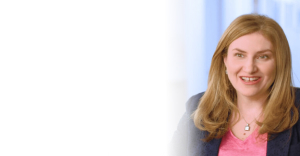
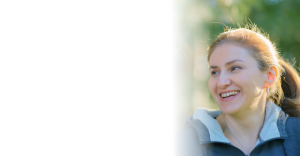
feat: replace images

diff --git a/patient-banners/160x600/Banner_files/css/custom-styles.min.css b/patient-banners/160x600/Banner_files/css/custom-styles.min.css
@@ -1,1 +1,1 @@
-@import url(https://fonts.googleapis.com/css2?family=Source+Sans+Pro:ital,wght@0,200;0,300;0,400;0,600;0,700;0,900;1,200;1,300;1,400;1,600;1,700;1,900&display=swap);@import url(https://fonts.googleapis.com/css2?family=Open+Sans&display=swap);*,a:active{outline:0}*,ol,ul{padding:0}*,:after,:before,body{box-sizing:border-box}*,.banner__frame--text p a:hover{text-decoration:none}.banner__frame--text .mt-0.underline,.banner__frame--text p a{text-decoration:underline}.banner__frame--three .banner__frame--top,a{cursor:pointer}.banner__frame p,.banner__frame--top-body{text-align:center}*,.h,.h1,.h2,.h3,.h4,.h5,.h6,h1,h2,h3,h4,h5,h6{margin:0}html{margin:0!important;-webkit-text-size-adjust:none}ol,ul{list-style:none}a img{border:none}button::-moz-focus-inner,input[type=button]::-moz-focus-inner,input[type=file]>input[type=button]::-moz-focus-inner,input[type=reset]::-moz-focus-inner,input[type=submit]::-moz-focus-inner{margin:0;border:0;padding:0}input[type=button],input[type=email],input[type=password],input[type=reset],input[type=submit],input[type=tel],input[type=text],textarea{-webkit-appearance:none;-moz-appearance:none;appearance:none}input::-moz-placeholder{opacity:1}input:-webkit-autofill{-webkit-box-shadow:inset 0 0 0 1000px #fff}table{width:100%;border-collapse:collapse}p{line-height:20px}a{color:inherit}img{max-width:100%}em,i{font-style:italic}body{background:#fff;display:block;font-family:"Source Sans Pro",sans-serif;color:#253a71}.bannerWrapper{display:flex;align-items:center;justify-content:center;width:100%;position:relative;height:100%}.banner__frame--logo,.banner__frame--top{display:flex;align-items:center;padding:0}.banner__frame{width:160px;margin:0 auto;background:#fff;height:600px;opacity:1;position:absolute;top:auto;left:auto;border:1px solid #000}.banner__frame--bottom,.bottomSectionOuter,.list li,.one{position:relative}.banner__frame--top{background-image:url(../img/banner_160X600.jpg);height:376px;justify-content:flex-start;flex-direction:column}.banner__frame--top h1{font-weight:700;font-size:20px;line-height:24px;text-align:center;letter-spacing:-.01em}.banner__frame--top h1 strong{font-weight:700}.banner__frame--top h1 span{letter-spacing:-.03em}.banner__frame .banner__frame--one h1{margin-top:6px}.banner__frame .banner__frame--two h1{margin-top:24px}.banner__frame--top .btn{border:none;cursor:pointer;width:150px;height:30px;border-radius:30px;background-color:#0093c7;color:#fff;font-size:16px;line-height:22px;margin:26px auto 0;font-family:'Open Sans',sans-serif}.banner__frame--logo{position:relative;width:100%;justify-content:center;margin-top:31px}#IsiContent,.banner__frame-anime,.list li:before{position:absolute}.banner__frame--logo span{display:inline-flex;align-items:center;justify-content:center;width:100%}.banner__frame p{font-weight:400;font-size:19px;line-height:23px;color:#253a71;letter-spacing:-.5px}.banner__frame p strong{font-weight:700}.banner__frame--bottom h3{margin:0;padding:7px 5px 4px;font-style:normal;font-weight:700;font-size:16px;line-height:17px;color:#253a71;letter-spacing:-.5px}.banner__frame--text{padding:0 6px;word-break:break-word}.banner__frame--text::-webkit-scrollbar-track{-webkit-box-shadow:inset 0 0 6px rgba(0,0,0,.05);background-color:#fff;border-radius:8px}.banner__frame--text::-webkit-scrollbar{width:4px;background-color:#fff}.banner__frame--text::-webkit-scrollbar-thumb{background-color:#253a71;border-radius:8px}.banner__frame--text h3{font-style:normal;font-weight:700;font-size:11px;line-height:14px;color:#253a71;margin:0;padding:0}.banner__frame--text h4,.banner__frame--text p,.banner__frame--text ul li{font-style:normal;font-weight:400;font-size:11px;line-height:14px;color:#253a71;margin:0 0 6px;text-align:left}.banner__frame--text h4{font-weight:700;margin:8px 0 0;font-size:11px;line-height:14px}.banner__frame--border{margin-top:10px;border:.75px solid #000;padding:2px 4px}.banner__frame--border .not-margin,.banner__frame--text .mt-0{margin-top:0}.banner__frame--text ul{margin:0;padding:8px 0 0 6px}.banner__frame--text ul li{font-weight:400;margin:0;padding-bottom:6px}.banner__frame--text ul li strong{font-weight:700}.banner__frame--text p{font-weight:400;margin:8px 0 0}.banner__frame--text .pb-10{padding-bottom:10px}.banner__frame--text .mt-5{margin-top:5px;display:inline-block}.banner__frame--text .mb-5{margin-bottom:5px;display:inline-block}.banner__frame--text img{margin:4px 0}.banner__frame--one{animation:30s forwards fade-in-one}.banner__frame--two{animation:30s forwards fade-in-two}.banner__frame--top .banner__frame--two small{font-style:italic;font-weight:700;font-size:18px;line-height:19px;color:#0093c7;display:inline-block}.banner__frame--three{animation:30s forwards fade-in-three;cursor:pointer}.banner__frame--top .banner__frame--three h1{font-weight:700;font-size:29px;line-height:30px;letter-spacing:-.01em;margin-top:22px}.list li{padding-left:13px}.list li:before{top:8px;left:0;content:'';width:3px;height:3px;border-radius:100%;background:#253a71}@keyframes fade-in-one{0%,35.3%,42.9%,7.6%,70.5%,78.1%{opacity:1}100%,33.1%,45%,68.4%,80.2%,9.7%{opacity:0}}@keyframes fade-in-two{0%,100%,19.4%,42.9%,54.7%,7.6%,78.1%,89.9%{opacity:0}17.3%,45%,52.6%,80.2%,87.8%,9.7%{opacity:1}}@keyframes fade-in-three{0%,17.3%,35.3%,52.6%,70.5%,87.8%{opacity:0}100%,19.4%,33.1%,54.7%,68.4%,89.9%{opacity:1}}#IsiContent{z-index:99999;top:84px}.one{width:160px;height:210px;overflow:hidden;margin:0 0 0 5px}.bottomSectionOuter{width:100%;max-width:170px}#scrollspeed,.adverse-reactions strong br,.heart-beat br{display:none}
+@import url(https://fonts.googleapis.com/css2?family=Source+Sans+Pro:ital,wght@0,200;0,300;0,400;0,600;0,700;0,900;1,200;1,300;1,400;1,600;1,700;1,900&display=swap);@import url(https://fonts.googleapis.com/css2?family=Open+Sans&display=swap);*,a:active{outline:0}*,ol,ul{padding:0}*,:after,:before,body{box-sizing:border-box}*,.banner__frame--text p a:hover{text-decoration:none}.banner__frame--text .mt-0.underline,.banner__frame--text p a{text-decoration:underline}.banner__frame--three .banner__frame--top,a{cursor:pointer}.banner__frame p,.banner__frame--top-body{text-align:center}*,.h,.h1,.h2,.h3,.h4,.h5,.h6,h1,h2,h3,h4,h5,h6{margin:0}html{margin:0!important;-webkit-text-size-adjust:none}ol,ul{list-style:none}a img{border:none}button::-moz-focus-inner,input[type=button]::-moz-focus-inner,input[type=file]>input[type=button]::-moz-focus-inner,input[type=reset]::-moz-focus-inner,input[type=submit]::-moz-focus-inner{margin:0;border:0;padding:0}input[type=button],input[type=email],input[type=password],input[type=reset],input[type=submit],input[type=tel],input[type=text],textarea{-webkit-appearance:none;-moz-appearance:none;appearance:none}input::-moz-placeholder{opacity:1}input:-webkit-autofill{-webkit-box-shadow:inset 0 0 0 1000px #fff}table{width:100%;border-collapse:collapse}p{line-height:20px}a{color:inherit}img{max-width:100%}em,i{font-style:italic}body{background:#fff;display:block;font-family:"Source Sans Pro",sans-serif;color:#253a71}.bannerWrapper{display:flex;align-items:center;justify-content:center;width:100%;position:relative;height:100%}.banner__frame--logo,.banner__frame--top{display:flex;align-items:center;padding:0}.banner__frame{width:160px;margin:0 auto;background:#fff;height:600px;opacity:1;position:absolute;top:auto;left:auto;border:1px solid #000}.banner__frame--bottom,.bottomSectionOuter,.list li,.one{position:relative}.banner__frame--top{background-image:url(../img/bg.jpg);height:376px;justify-content:flex-start;flex-direction:column}.banner__frame--top h1{font-weight:700;font-size:20px;line-height:24px;text-align:center;letter-spacing:-.01em}.banner__frame--top h1 strong{font-weight:700}.banner__frame--top h1 span{letter-spacing:-.03em}.banner__frame .banner__frame--one h1{margin-top:6px}.banner__frame .banner__frame--two h1{margin-top:24px}.banner__frame--top .btn{border:none;cursor:pointer;width:150px;height:30px;border-radius:30px;background-color:#0093c7;color:#fff;font-size:16px;line-height:22px;margin:26px auto 0;font-family:'Open Sans',sans-serif}.banner__frame--logo{position:relative;width:100%;justify-content:center;margin-top:31px}#IsiContent,.banner__frame-anime,.list li:before{position:absolute}.banner__frame--logo span{display:inline-flex;align-items:center;justify-content:center;width:100%}.banner__frame p{font-weight:400;font-size:19px;line-height:23px;color:#253a71;letter-spacing:-.5px}.banner__frame p strong{font-weight:700}.banner__frame--bottom h3{margin:0;padding:7px 5px 4px;font-style:normal;font-weight:700;font-size:16px;line-height:17px;color:#253a71;letter-spacing:-.5px}.banner__frame--text{padding:0 6px;word-break:break-word}.banner__frame--text::-webkit-scrollbar-track{-webkit-box-shadow:inset 0 0 6px rgba(0,0,0,.05);background-color:#fff;border-radius:8px}.banner__frame--text::-webkit-scrollbar{width:4px;background-color:#fff}.banner__frame--text::-webkit-scrollbar-thumb{background-color:#253a71;border-radius:8px}.banner__frame--text h3{font-style:normal;font-weight:700;font-size:11px;line-height:14px;color:#253a71;margin:0;padding:0}.banner__frame--text h4,.banner__frame--text p,.banner__frame--text ul li{font-style:normal;font-weight:400;font-size:11px;line-height:14px;color:#253a71;margin:0 0 6px;text-align:left}.banner__frame--text h4{font-weight:700;margin:8px 0 0;font-size:11px;line-height:14px}.banner__frame--border{margin-top:10px;border:.75px solid #000;padding:2px 4px}.banner__frame--border .not-margin,.banner__frame--text .mt-0{margin-top:0}.banner__frame--text ul{margin:0;padding:8px 0 0 6px}.banner__frame--text ul li{font-weight:400;margin:0;padding-bottom:6px}.banner__frame--text ul li strong{font-weight:700}.banner__frame--text p{font-weight:400;margin:8px 0 0}.banner__frame--text .pb-10{padding-bottom:10px}.banner__frame--text .mt-5{margin-top:5px;display:inline-block}.banner__frame--text .mb-5{margin-bottom:5px;display:inline-block}.banner__frame--text img{margin:4px 0}.banner__frame--one{animation:30s forwards fade-in-one}.banner__frame--two{animation:30s forwards fade-in-two}.banner__frame--top .banner__frame--two small{font-style:italic;font-weight:700;font-size:18px;line-height:19px;color:#0093c7;display:inline-block}.banner__frame--three{animation:30s forwards fade-in-three;cursor:pointer}.banner__frame--top .banner__frame--three h1{font-weight:700;font-size:29px;line-height:30px;letter-spacing:-.01em;margin-top:22px}.list li{padding-left:13px}.list li:before{top:8px;left:0;content:'';width:3px;height:3px;border-radius:100%;background:#253a71}@keyframes fade-in-one{0%,35.3%,42.9%,7.6%,70.5%,78.1%{opacity:1}100%,33.1%,45%,68.4%,80.2%,9.7%{opacity:0}}@keyframes fade-in-two{0%,100%,19.4%,42.9%,54.7%,7.6%,78.1%,89.9%{opacity:0}17.3%,45%,52.6%,80.2%,87.8%,9.7%{opacity:1}}@keyframes fade-in-three{0%,17.3%,35.3%,52.6%,70.5%,87.8%{opacity:0}100%,19.4%,33.1%,54.7%,68.4%,89.9%{opacity:1}}#IsiContent{z-index:99999;top:84px}.one{width:160px;height:210px;overflow:hidden;margin:0 0 0 5px}.bottomSectionOuter{width:100%;max-width:170px}#scrollspeed,.adverse-reactions strong br,.heart-beat br{display:none}

diff --git a/hcp-banners/160x600/Banner_files/css/custom-styles.min.css b/hcp-banners/160x600/Banner_files/css/custom-styles.min.css
@@ -1,1 +1,1 @@
-@import url(https://fonts.googleapis.com/css2?family=Source+Sans+Pro:ital,wght@0,200;0,300;0,400;0,600;0,700;0,900;1,200;1,300;1,400;1,600;1,700;1,900&display=swap);*,a:active{outline:0}*,ol,ul{padding:0}*,:after,:before,body{box-sizing:border-box}*,.banner__frame--text p a:hover{text-decoration:none}.banner__frame--text .mt-0.underline,.banner__frame--text p a{text-decoration:underline}.banner__frame--three .banner__frame--top,a{cursor:pointer}.banner__frame p,.banner__frame--top-body{text-align:center}*,.h,.h1,.h2,.h3,.h4,.h5,.h6,h1,h2,h3,h4,h5,h6{margin:0}html{margin:0!important;-webkit-text-size-adjust:none}ol,ul{list-style:none}a img{border:none}button::-moz-focus-inner,input[type=button]::-moz-focus-inner,input[type=file]>input[type=button]::-moz-focus-inner,input[type=reset]::-moz-focus-inner,input[type=submit]::-moz-focus-inner{margin:0;border:0;padding:0}input[type=button],input[type=email],input[type=password],input[type=reset],input[type=submit],input[type=tel],input[type=text],textarea{-webkit-appearance:none;-moz-appearance:none;appearance:none}input::-moz-placeholder{opacity:1}input:-webkit-autofill{-webkit-box-shadow:inset 0 0 0 1000px #fff}table{width:100%;border-collapse:collapse}p{line-height:20px}a{color:inherit}img{max-width:100%}em,i{font-style:italic}body{background:#fff;display:block;font-family:"Source Sans Pro",sans-serif;color:#253a71}.bannerWrapper{display:flex;align-items:center;justify-content:center;width:100%;position:relative;height:100%}.banner__frame--logo,.banner__frame--top{display:flex;align-items:center;padding:0}.banner__frame{width:160px;margin:0 auto;background:#fff;height:600px;opacity:1;position:absolute;top:auto;left:auto;border:1px solid #000}.banner__frame--bottom,.bottomSectionOuter,.list li,.one{position:relative}.banner__frame--line{width:158px;height:16px;left:1px;top:0;background:#0093c7}.banner__frame--top{background-image:url(../img/banner_160X600.png);position:relative;height:360px;justify-content:flex-start;flex-direction:column}#IsiContent,.banner__frame-anime,.list li:before{position:absolute}.banner__frame--top h1{font-weight:400;font-size:16px;line-height:19px;text-align:center;letter-spacing:.02em}.banner__frame--top h1 strong{font-weight:700}.banner__frame--top h1 span{letter-spacing:-.03em}.banner__frame--top .btn{border:none;cursor:pointer;width:116px;height:24px;border-radius:30px;background-color:#0093c7;color:#fff;font-size:16px;line-height:22px;margin:12px auto 0;font-family:'Open Sans',sans-serif}.banner__frame--logo{position:relative;width:100%;justify-content:space-between}.banner__frame--logo span{display:inline-flex;align-items:center;justify-content:center;width:100%}.banner__frame p{font-weight:400;font-size:19px;line-height:23px;color:#253a71;letter-spacing:-.5px}.banner__frame p strong{font-weight:700}.banner__frame--bottom h3{margin:0;padding:7px 5px 4px;font-style:normal;font-weight:700;font-size:16px;line-height:17px;color:#253a71;letter-spacing:-.5px}.banner__frame--text{padding:6px;word-break:break-word}.banner__frame--text::-webkit-scrollbar-track{-webkit-box-shadow:inset 0 0 6px rgba(0,0,0,.05);background-color:#fff;border-radius:8px}.banner__frame--text::-webkit-scrollbar{width:4px;background-color:#fff}.banner__frame--text::-webkit-scrollbar-thumb{background-color:#253a71;border-radius:8px}.banner__frame--text h3{font-style:normal;font-weight:700;font-size:11px;line-height:14px;color:#253a71;margin:0;padding:0}.banner__frame--text h4,.banner__frame--text p,.banner__frame--text ul li{font-style:normal;font-weight:400;font-size:11px;line-height:14px;color:#253a71;margin:0 0 6px;text-align:left}.banner__frame--text h4{font-weight:700;margin:8px 0 0;font-size:11px;line-height:14px}.banner__frame--border{margin-top:10px;border:.75px solid #000;padding:2px 4px}.banner__frame--border .not-margin,.banner__frame--text .mt-0{margin-top:0}.banner__frame--text ul{margin:0;padding:8px 0 0 6px}.banner__frame--text ul li{font-weight:400;margin:0;padding-bottom:6px}.banner__frame--text ul li strong{font-weight:700}.banner__frame--text p{font-weight:400;margin:8px 0 0}.banner__frame--text .pb-10{padding-bottom:10px}.banner__frame--text .mt-5{margin-top:5px;display:inline-block}.banner__frame--text img{margin:4px 0}.banner__frame--one{animation:30s forwards fade-in-one}.banner__frame--two{animation:30s forwards fade-in-two}.banner__frame--top .banner__frame--two small{font-style:italic;font-weight:700;font-size:18px;line-height:19px;color:#0093c7;display:inline-block}.banner__frame--three{animation:30s forwards fade-in-three}.banner__frame--top .banner__frame--three h1{font-weight:700;font-size:27px;line-height:30px;margin-top:10px}.list li{padding-left:13px}.list li:before{top:8px;left:0;content:'';width:3px;height:3px;border-radius:100%;background:#253a71}@keyframes fade-in-one{0%,35.3%,42.9%,7.6%,70.5%,78.1%{opacity:1}100%,33.1%,45%,68.4%,80.2%,9.7%{opacity:0}}@keyframes fade-in-two{0%,100%,19.4%,42.9%,54.7%,7.6%,78.1%,89.9%{opacity:0}17.3%,45%,52.6%,80.2%,87.8%,9.7%{opacity:1}}@keyframes fade-in-three{0%,17.3%,35.3%,52.6%,70.5%,87.8%{opacity:0}100%,19.4%,33.1%,54.7%,68.4%,89.9%{opacity:1}}#IsiContent{z-index:99999;top:84px}.one{width:160px;height:210px;overflow:hidden;margin:0 0 0 5px}.bottomSectionOuter{width:100%;max-width:170px}#scrollspeed,.adverse-reactions strong br,.heart-beat br{display:none}
+@import url(https://fonts.googleapis.com/css2?family=Source+Sans+Pro:ital,wght@0,200;0,300;0,400;0,600;0,700;0,900;1,200;1,300;1,400;1,600;1,700;1,900&display=swap);*,a:active{outline:0}*,ol,ul{padding:0}*,:after,:before,body{box-sizing:border-box}*,.banner__frame--text p a:hover{text-decoration:none}.banner__frame--text .mt-0.underline,.banner__frame--text p a{text-decoration:underline}.banner__frame--three .banner__frame--top,a{cursor:pointer}.banner__frame p,.banner__frame--top-body{text-align:center}*,.h,.h1,.h2,.h3,.h4,.h5,.h6,h1,h2,h3,h4,h5,h6{margin:0}html{margin:0!important;-webkit-text-size-adjust:none}ol,ul{list-style:none}a img{border:none}button::-moz-focus-inner,input[type=button]::-moz-focus-inner,input[type=file]>input[type=button]::-moz-focus-inner,input[type=reset]::-moz-focus-inner,input[type=submit]::-moz-focus-inner{margin:0;border:0;padding:0}input[type=button],input[type=email],input[type=password],input[type=reset],input[type=submit],input[type=tel],input[type=text],textarea{-webkit-appearance:none;-moz-appearance:none;appearance:none}input::-moz-placeholder{opacity:1}input:-webkit-autofill{-webkit-box-shadow:inset 0 0 0 1000px #fff}table{width:100%;border-collapse:collapse}p{line-height:20px}a{color:inherit}img{max-width:100%}em,i{font-style:italic}body{background:#fff;display:block;font-family:"Source Sans Pro",sans-serif;color:#253a71}.bannerWrapper{display:flex;align-items:center;justify-content:center;width:100%;position:relative;height:100%}.banner__frame--logo,.banner__frame--top{display:flex;align-items:center;padding:0}.banner__frame{width:160px;margin:0 auto;background:#fff;height:600px;opacity:1;position:absolute;top:auto;left:auto;border:1px solid #000}.banner__frame--bottom,.bottomSectionOuter,.list li,.one{position:relative}.banner__frame--line{width:158px;height:16px;left:1px;top:0;background:#0093c7}.banner__frame--top{background-image:url(../img/bg.jpg);position:relative;height:360px;justify-content:flex-start;flex-direction:column}#IsiContent,.banner__frame-anime,.list li:before{position:absolute}.banner__frame--top h1{font-weight:400;font-size:16px;line-height:19px;text-align:center;letter-spacing:.02em}.banner__frame--top h1 strong{font-weight:700}.banner__frame--top h1 span{letter-spacing:-.03em}.banner__frame--top .btn{border:none;cursor:pointer;width:116px;height:24px;border-radius:30px;background-color:#0093c7;color:#fff;font-size:16px;line-height:22px;margin:12px auto 0;font-family:'Open Sans',sans-serif}.banner__frame--logo{position:relative;width:100%;justify-content:space-between}.banner__frame--logo span{display:inline-flex;align-items:center;justify-content:center;width:100%}.banner__frame p{font-weight:400;font-size:19px;line-height:23px;color:#253a71;letter-spacing:-.5px}.banner__frame p strong{font-weight:700}.banner__frame--bottom h3{margin:0;padding:7px 5px 4px;font-style:normal;font-weight:700;font-size:16px;line-height:17px;color:#253a71;letter-spacing:-.5px}.banner__frame--text{padding:6px;word-break:break-word}.banner__frame--text::-webkit-scrollbar-track{-webkit-box-shadow:inset 0 0 6px rgba(0,0,0,.05);background-color:#fff;border-radius:8px}.banner__frame--text::-webkit-scrollbar{width:4px;background-color:#fff}.banner__frame--text::-webkit-scrollbar-thumb{background-color:#253a71;border-radius:8px}.banner__frame--text h3{font-style:normal;font-weight:700;font-size:11px;line-height:14px;color:#253a71;margin:0;padding:0}.banner__frame--text h4,.banner__frame--text p,.banner__frame--text ul li{font-style:normal;font-weight:400;font-size:11px;line-height:14px;color:#253a71;margin:0 0 6px;text-align:left}.banner__frame--text h4{font-weight:700;margin:8px 0 0;font-size:11px;line-height:14px}.banner__frame--border{margin-top:10px;border:.75px solid #000;padding:2px 4px}.banner__frame--border .not-margin,.banner__frame--text .mt-0{margin-top:0}.banner__frame--text ul{margin:0;padding:8px 0 0 6px}.banner__frame--text ul li{font-weight:400;margin:0;padding-bottom:6px}.banner__frame--text ul li strong{font-weight:700}.banner__frame--text p{font-weight:400;margin:8px 0 0}.banner__frame--text .pb-10{padding-bottom:10px}.banner__frame--text .mt-5{margin-top:5px;display:inline-block}.banner__frame--text img{margin:4px 0}.banner__frame--one{animation:30s forwards fade-in-one}.banner__frame--two{animation:30s forwards fade-in-two}.banner__frame--top .banner__frame--two small{font-style:italic;font-weight:700;font-size:18px;line-height:19px;color:#0093c7;display:inline-block}.banner__frame--three{animation:30s forwards fade-in-three}.banner__frame--top .banner__frame--three h1{font-weight:700;font-size:27px;line-height:30px;margin-top:10px}.list li{padding-left:13px}.list li:before{top:8px;left:0;content:'';width:3px;height:3px;border-radius:100%;background:#253a71}@keyframes fade-in-one{0%,35.3%,42.9%,7.6%,70.5%,78.1%{opacity:1}100%,33.1%,45%,68.4%,80.2%,9.7%{opacity:0}}@keyframes fade-in-two{0%,100%,19.4%,42.9%,54.7%,7.6%,78.1%,89.9%{opacity:0}17.3%,45%,52.6%,80.2%,87.8%,9.7%{opacity:1}}@keyframes fade-in-three{0%,17.3%,35.3%,52.6%,70.5%,87.8%{opacity:0}100%,19.4%,33.1%,54.7%,68.4%,89.9%{opacity:1}}#IsiContent{z-index:99999;top:84px}.one{width:160px;height:210px;overflow:hidden;margin:0 0 0 5px}.bottomSectionOuter{width:100%;max-width:170px}#scrollspeed,.adverse-reactions strong br,.heart-beat br{display:none}
